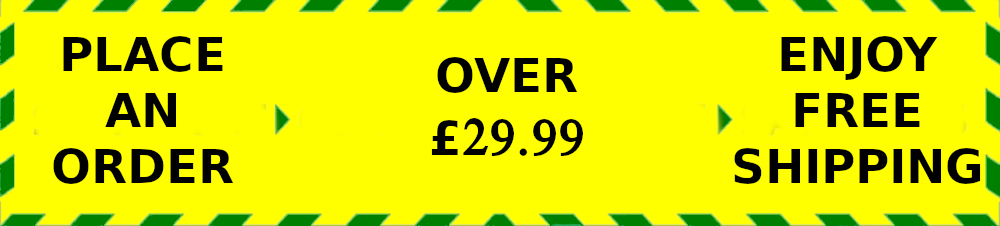
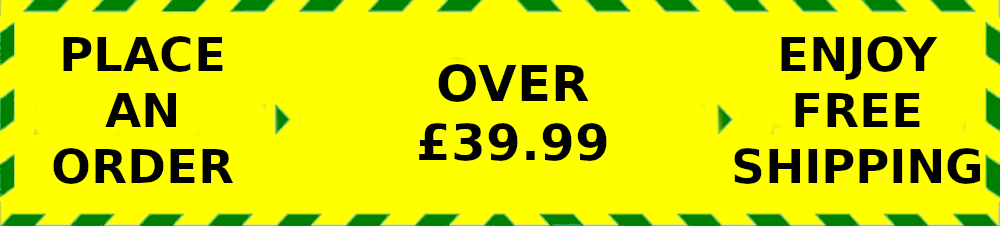
increase free-shipping threshold

Changed region(s): [[0.403, 0.5265, 0.62, 0.7124], [0.434, 0.2478, 0.589, 0.4646]]

diff --git a/angular-app/app/listing_component/product.html b/angular-app/app/listing_component/product.html
@@ -43,7 +43,7 @@
 				<span ng-show="onSale" class="fs-09 label label-danger m-r-05">{{discountRate}} Off</span>
 			</div>
 			<div class="m-b-05">
-				<span class="fs-09 label label-info m-r-05">Free shipping over $29.99</span>
+				<span class="fs-09 label label-info m-r-05">Free shipping over $39.99</span>
 			</div>
 			<div class="m-b-05">
 				<a ng-repeat='item in product.tags' class="clickable-label" href="tags/{{item.tag}}">

diff --git a/shopping-cart/src/main/java/shoppingcart/controller/ShoppingCartController.java b/shopping-cart/src/main/java/shoppingcart/controller/ShoppingCartController.java
@@ -101,7 +101,7 @@ public class ShoppingCartController {
     public List<DeliveryOptionData> getDeliveryOptions(@PathVariable UUID cartUid) {
         Optional<ShoppingCart> shoppingCart = shoppingCartService.getShoppingCartByUid(cartUid);
         BigDecimal itemSubTotal = shoppingCart.map(ShoppingCart::getItemSubTotal).orElse(BigDecimal.ZERO);
-        if (itemSubTotal.compareTo(BigDecimal.valueOf(29.99)) < 0) {
+        if (itemSubTotal.compareTo(BigDecimal.valueOf(39.99)) < 0) {
             return Arrays.asList(
                     cartDataMapper.map(DeliveryOption.builder().method("Standard Delivery").charge(3.99D).minDaysRequired(2).maxDaysRequired(5).vatRate(20).build())
             );
